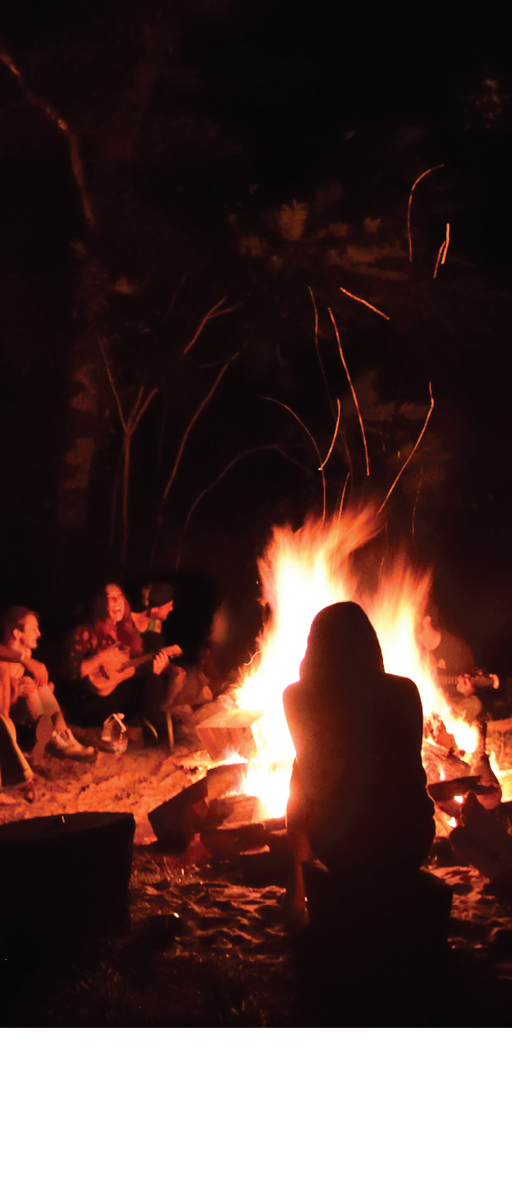
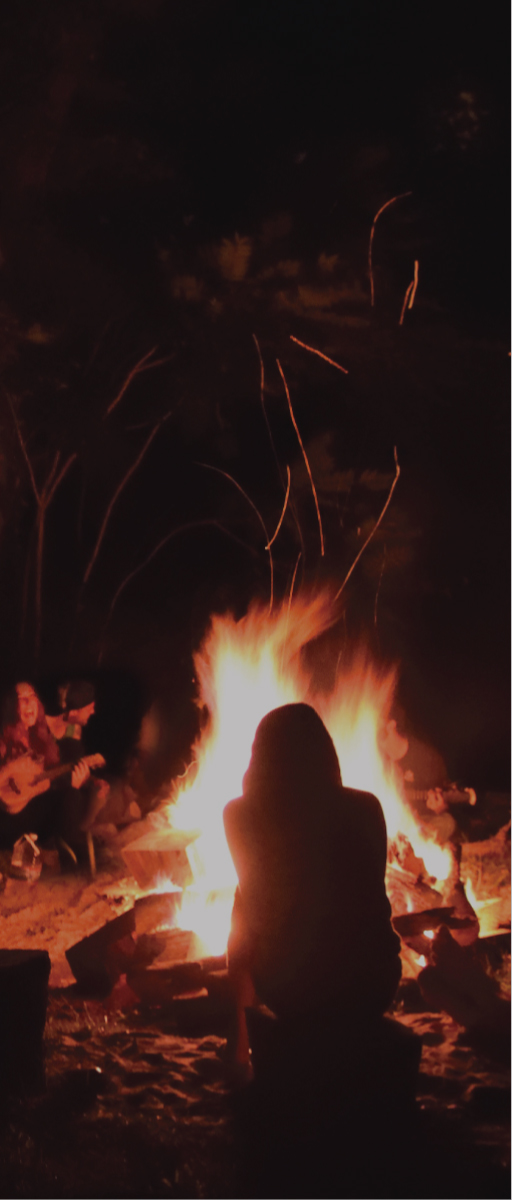
updated photos to 1200 px tall on homepage

diff --git a/app/assets/stylesheets/column_layout.scss b/app/assets/stylesheets/column_layout.scss
@@ -82,7 +82,7 @@
       
       &:nth-child(5) {
         .strip__content {
-          background-image: url("mobile_wedding.jpg");
+          background-image: url("mobile_private_2.jpg");
           background-repeat: no-repeat;
         }
       }
@@ -199,7 +199,7 @@
       //changes photos to desktop versions
         &:nth-child(1) {
           .strip__content {
-            background-image: url("column_wedding.jpg");
+            background-image: url("column_wedding_1200.jpg");
             background-position: center;
             background-repeat: no-repeat;
           }
@@ -207,7 +207,7 @@
 
         &:nth-child(2) {
           .strip__content {
-            background-image: url("column_music.jpg");
+            background-image: url("column_music_1200.jpg");
             background-position: center;
             background-repeat: no-repeat;
           }
@@ -215,7 +215,7 @@
         
         &:nth-child(3) {
           .strip__content {
-            background-image: url("column_drivein.jpg");
+            background-image: url("column_drivein_1200.jpg");
             background-position: center;
             background-repeat: no-repeat;
           }
@@ -223,7 +223,7 @@
         
         &:nth-child(4) {
           .strip__content {
-            background-image: url("column_camp.jpg");
+            background-image: url("column_camp_repositioned_1.jpg");
             background-position: right;
             background-repeat: no-repeat;
           }
@@ -231,7 +231,7 @@
         
         &:nth-child(5) {
           .strip__content {
-            background-image: url("column_wedding.jpg");
+            background-image: url("column_private_1200_2.jpg");
             background-position: center;
             background-repeat: no-repeat;
           }
